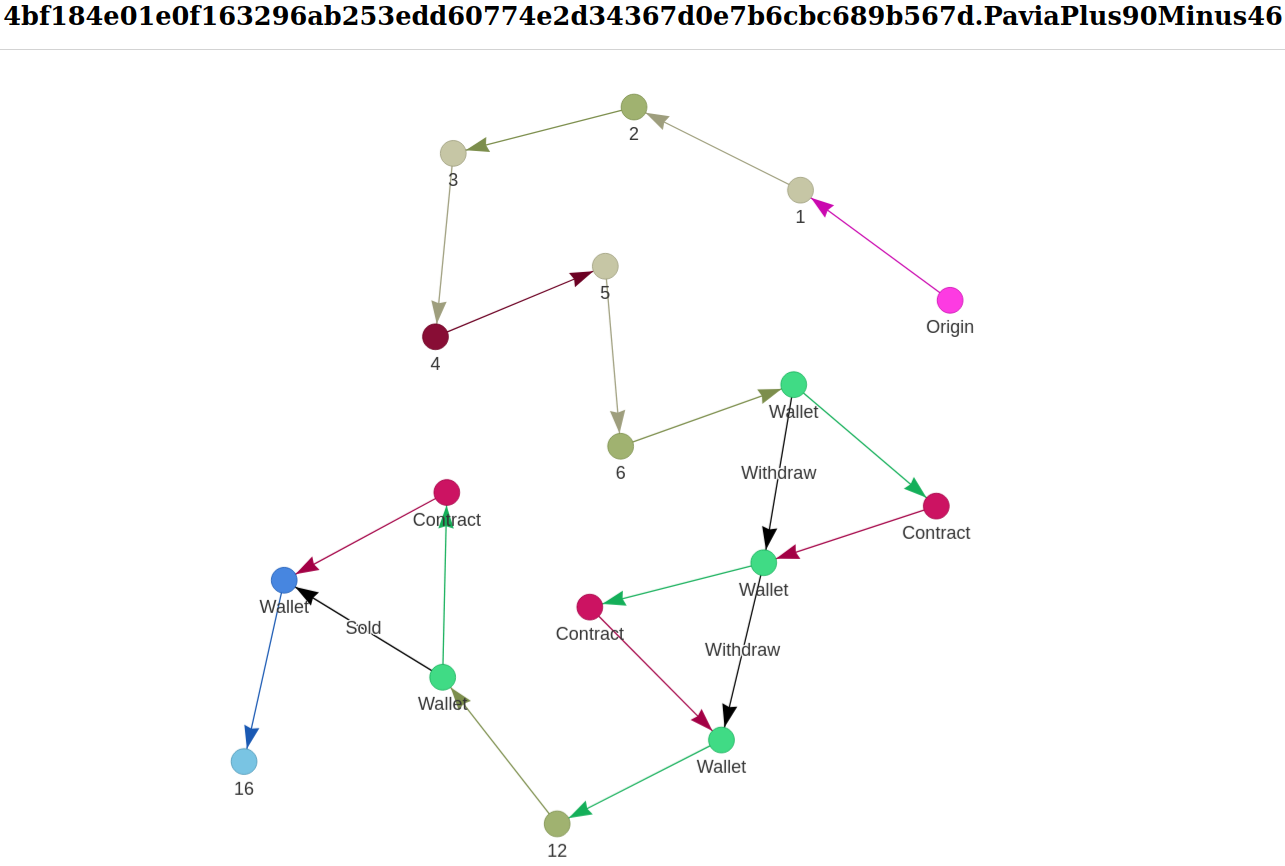
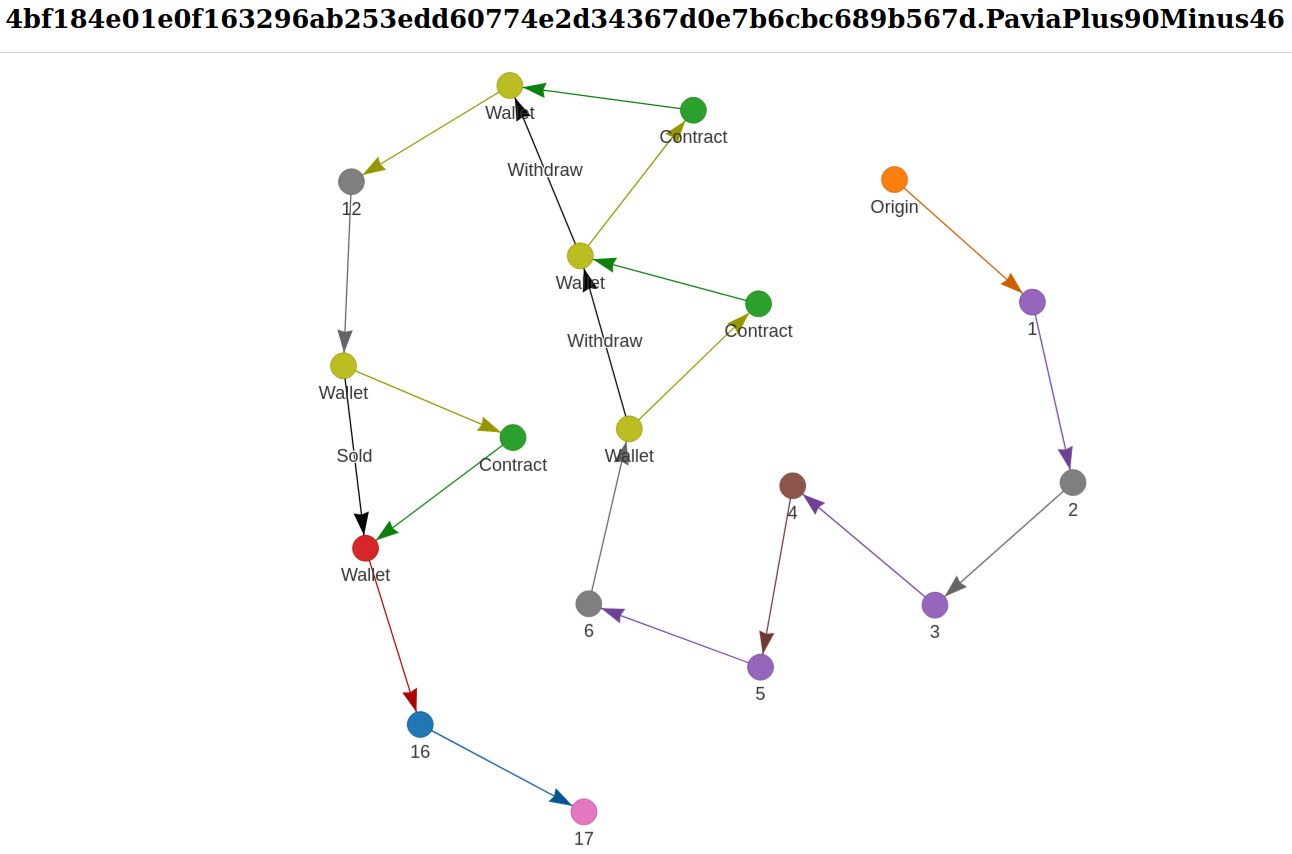
Adding testing and improving color selection

diff --git a/nx.html b/nx.html
@@ -3,7 +3,7 @@
 <link rel="stylesheet" href="https://cdnjs.cloudflare.com/ajax/libs/vis/4.16.1/vis.css" type="text/css" />
 <script type="text/javascript" src="https://cdnjs.cloudflare.com/ajax/libs/vis/4.16.1/vis-network.min.js"> </script>
 <center>
-<h1>8634f3bf5cd864c4b661ff25789ae0154b34084d431c222d242bc39c.DEADTRAILLOGIC11</h1>
+<h1>4bf184e01e0f163296ab253edd60774e2d34367d0e7b6cbc689b567d.PaviaPlus90Minus46</h1>
 </center>
 
 <!-- <link rel="stylesheet" href="../node_modules/vis/dist/vis.min.css" type="text/css" />
@@ -50,8 +50,8 @@
         
 
         // parsing and collecting nodes and edges from the python
-        nodes = new vis.DataSet([{"address": "stake1u8xlrrmrt9uvgae03se42t63mglam333vuwn5w25daj62wqzms5we", "color": "#C57783", "id": 0, "label": "Origin", "shape": "dot", "size": 10, "title": "stake1u8xlrrmrt9uvgae03se42t63mglam333vuwn5w25daj62wqzms5we"}, {"address": "stake1uytv94sz3fxehr49steajzuyy4wnmp4a8ehyywyhfc2g3pguhn0dq", "color": "#E0A3B0", "id": 1, "label": "1", "shape": "dot", "size": 10, "title": "stake1uytv94sz3fxehr49steajzuyy4wnmp4a8ehyywyhfc2g3pguhn0dq"}, {"address": "addr1vy356vnymrzy27kkh4se0znrpr4jgqmay2n0xutglcnfnac85efw4", "color": "#7C537D", "id": 2, "label": "Wallet", "shape": "dot", "size": 10, "title": "addr1vy356vnymrzy27kkh4se0znrpr4jgqmay2n0xutglcnfnac85efw4"}, {"address": "addr1wyl5fauf4m4thqze74kvxk8efcj4n7qjx005v33ympj7uwsscprfk", "color": "#C2D15E", "id": 3, "label": "Contract", "shape": "dot", "size": 10, "title": "addr1wyl5fauf4m4thqze74kvxk8efcj4n7qjx005v33ympj7uwsscprfk"}]);
[1 lines of base64/hex data omitted]
+        nodes = new vis.DataSet([{"address": "stake1u89qftvr6q8y2ay9spyzpt0cj5avgntf44jm8duxndhsxrspgh0aa", "color": "#2ca02c", "id": 0, "label": "Origin", "shape": "dot", "size": 10, "title": "stake1u89qftvr6q8y2ay9spyzpt0cj5avgntf44jm8duxndhsxrspgh0aa"}, {"address": "stake1u9mjnpf5a5k6eavp5yh0fkyeek25cx9jv6rstp5y4k6q3gqv7tdy9", "color": "#8c564b", "id": 1, "label": "1", "shape": "dot", "size": 10, "title": "stake1u9mjnpf5a5k6eavp5yh0fkyeek25cx9jv6rstp5y4k6q3gqv7tdy9"}, {"address": "stake1u8jvcxa9l7m2kp8hf76jxxd7swel0j7fc7sn0kq5yrgzpwgjszc8l", "color": "#7f7f7f", "id": 2, "label": "2", "shape": "dot", "size": 10, "title": "stake1u8jvcxa9l7m2kp8hf76jxxd7swel0j7fc7sn0kq5yrgzpwgjszc8l"}, {"address": "stake1u9mjnpf5a5k6eavp5yh0fkyeek25cx9jv6rstp5y4k6q3gqv7tdy9", "color": "#8c564b", "id": 3, "label": "3", "shape": "dot", "size": 10, "title": "stake1u9mjnpf5a5k6eavp5yh0fkyeek25cx9jv6rstp5y4k6q3gqv7tdy9"}, {"address": "addr1vy562ys75vf9x670gnps3qr4hj2gwf86nzlhr5lppvjjavsxxrvj4", "color": "#1f77b4", "id": 4, "label": "4", "shape": "dot", "size": 10, "title": "addr1vy562ys75vf9x670gnps3qr4hj2gwf86nzlhr5lppvjjavsxxrvj4"}, {"address": "stake1u9mjnpf5a5k6eavp5yh0fkyeek25cx9jv6rstp5y4k6q3gqv7tdy9", "color": "#8c564b", "id": 5, "label": "5", "shape": "dot", "size": 10, "title": "stake1u9mjnpf5a5k6eavp5yh0fkyeek25cx9jv6rstp5y4k6q3gqv7tdy9"}, {"address": "stake1u8jvcxa9l7m2kp8hf76jxxd7swel0j7fc7sn0kq5yrgzpwgjszc8l", "color": "#7f7f7f", "id": 6, "label": "6", "shape": "dot", "size": 10, "title": "stake1u8jvcxa9l7m2kp8hf76jxxd7swel0j7fc7sn0kq5yrgzpwgjszc8l"}, {"address": "addr1vxs5th36tay9t6lu5ewek2mrrph6aqdhwqxvk0u74g6l2kcfjhss4", "color": "#d62728", "id": 7, "label": "Wallet", "shape": "dot", "size": 10, "title": "addr1vxs5th36tay9t6lu5ewek2mrrph6aqdhwqxvk0u74g6l2kcfjhss4"}, {"address": "addr1wyl5fauf4m4thqze74kvxk8efcj4n7qjx005v33ympj7uwsscprfk", "color": "#bcbd22", "id": 8, "label": "Contract", "shape": "dot", "size": 10, "title": "addr1wyl5fauf4m4thqze74kvxk8efcj4n7qjx005v33ympj7uwsscprfk"}, {"address": "addr1vxs5th36tay9t6lu5ewek2mrrph6aqdhwqxvk0u74g6l2kcfjhss4", "color": "#d62728", "id": 9, "label": "Wallet", "shape": "dot", "size": 10, "title": "addr1vxs5th36tay9t6lu5ewek2mrrph6aqdhwqxvk0u74g6l2kcfjhss4"}, {"address": "addr1wyl5fauf4m4thqze74kvxk8efcj4n7qjx005v33ympj7uwsscprfk", "color": "#bcbd22", "id": 10, "label": "Contract", "shape": "dot", "size": 10, "title": "addr1wyl5fauf4m4thqze74kvxk8efcj4n7qjx005v33ympj7uwsscprfk"}, {"address": "addr1vxs5th36tay9t6lu5ewek2mrrph6aqdhwqxvk0u74g6l2kcfjhss4", "color": "#d62728", "id": 11, "label": "Wallet", "shape": "dot", "size": 10, "title": "addr1vxs5th36tay9t6lu5ewek2mrrph6aqdhwqxvk0u74g6l2kcfjhss4"}, {"address": "stake1u8jvcxa9l7m2kp8hf76jxxd7swel0j7fc7sn0kq5yrgzpwgjszc8l", "color": "#7f7f7f", "id": 12, "label": "12", "shape": "dot", "size": 10, "title": "stake1u8jvcxa9l7m2kp8hf76jxxd7swel0j7fc7sn0kq5yrgzpwgjszc8l"}, {"address": "addr1vxs5th36tay9t6lu5ewek2mrrph6aqdhwqxvk0u74g6l2kcfjhss4", "color": "#d62728", "id": 13, "label": "Wallet", "shape": "dot", "size": 10, "title": "addr1vxs5th36tay9t6lu5ewek2mrrph6aqdhwqxvk0u74g6l2kcfjhss4"}, {"address": "addr1wyl5fauf4m4thqze74kvxk8efcj4n7qjx005v33ympj7uwsscprfk", "color": "#bcbd22", "id": 14, "label": "Contract", "shape": "dot", "size": 10, "title": "addr1wyl5fauf4m4thqze74kvxk8efcj4n7qjx005v33ympj7uwsscprfk"}, {"address": "addr1vy25qvqjvl9esgsw42c8esa6fdp4x2es4ped4qy8zhu25ecpk4j38", "color": "#e377c2", "id": 15, "label": "Wallet", "shape": "dot", "size": 10, "title": "addr1vy25qvqjvl9esgsw42c8esa6fdp4x2es4ped4qy8zhu25ecpk4j38"}, {"address": "stake1uxcd3g3hutd67ycw09rp6uuj5m8ucad3a3ql8d2trgywkvcfrdvsl", "color": "#9467bd", "id": 16, "label": "16", "shape": "dot", "size": 10, "title": "stake1uxcd3g3hutd67ycw09rp6uuj5m8ucad3a3ql8d2trgywkvcfrdvsl"}, {"address": "stake1uyrcntdc7hu6zeq2k6myedu0gn3cwuud95ns7lmmlaxapmcjx49ey", "color": "#ff7f0e", "id": 17, "label": "17", "shape": "dot", "size": 10, "title": "stake1uyrcntdc7hu6zeq2k6myedu0gn3cwuud95ns7lmmlaxapmcjx49ey"}]);
[1 lines of base64/hex data omitted]
 
         // adding nodes and edges to the graph
         data = {nodes: nodes, edges: edges};

diff --git a/origin_trace.py b/origin_trace.py
@@ -1,6 +1,7 @@
 """
-    File name: origin_trace.py
-    Author: The Ancient Kraken
+File name : origin_trace.py
+Testing   : test.py
+Author    : The Ancient Kraken
 """
 import requests
 import base64
@@ -11,6 +12,8 @@ from typing import Tuple
 import sys
 import json
 import click
+import matplotlib.colors as mcolors
+
 
 ###############################################################################
 # Requires Blockfrost API Key.
@@ -25,7 +28,10 @@ def get(endpoint:str) -> dict:
     """
     Return the json reponse from an endpoint.
     """
-    response = requests.get(endpoint, headers=headers).json()
+    try:
+        response = requests.get(endpoint, headers=headers).json()
+    except (requests.exceptions.MissingSchema, json.decoder.JSONDecodeError):
+        response = {}
     return response
 
 
@@ -35,6 +41,7 @@ def all_transactions(asset:str, mainnet_flag:bool=True) -> list:
     """
     page = 1
     trx = []
+    
     # Query each page until nothing returns.
     while True:
         endpoint = 'assets/{}/transactions?page={}'.format(asset, page)
@@ -42,14 +49,20 @@ def all_transactions(asset:str, mainnet_flag:bool=True) -> list:
             response = get(mainnet + endpoint)
         else:
             response = get(testnet + endpoint)
+        
+        # Any error should return an empty list.
         try:
             response['error']
             click.echo(click.style('Error: Invalid Inputs', fg='red'))
-            sys.exit()
+            return []
         except TypeError:
             pass
+        
+        # The last page will be empty.
         if response == []:
             break
+        
+        # Append the hash and increment the page.
         for obj in response:
             trx.append(obj['tx_hash'])
         page += 1
@@ -61,7 +74,13 @@ def txhash_to_address(trx_hashes:list, asset:str, mainnet_flag:bool=True) -> dic
     Create a dictionary of transaction hashes and addresses from a list of 
     every transaction of some asset.
     """
+    
+    # This function requries a list of hashes to work.
+    if not isinstance(trx_hashes, list):
+        return {}
+    asset = str(asset)
     addresses = {}
+    
     # Loop each tx hash from all the transactions
     for trx in trx_hashes:
         endpoint = 'txs/{}/utxos'.format(trx)
@@ -69,21 +88,47 @@ def txhash_to_address(trx_hashes:list, asset:str, mainnet_flag:bool=True) -> dic
             response_utxos = get(mainnet + endpoint)
         else:
             response_utxos = get(testnet + endpoint)
+        
         # Loop all the outputs from each UTxO of each transaction.
         for outputs in response_utxos['outputs']:
+            
             # Loop the amounts
             for amt in outputs['amount']:
                 if amt['unit'] == asset:
                     endpoint2 = 'addresses/{}'.format(outputs['address'])
+                    
                     # Check if stake address is available.
                     if mainnet_flag is True:
                         response_address = get(mainnet + endpoint2)['stake_address']
                     else:
                         response_address = get(testnet + endpoint2)['stake_address']
+                    
+                    # Use the wallet address if a stake address doesn't exist.
                     if response_address is None:
                         response_address = outputs['address']
                     addresses[trx] = response_address
     return addresses
+
+def select_colors(number:int) -> list:
+    """
+    Select N unique colors that are distingishable.
+    """
+
+    # The number must be an int.
+    try:
+        number = int(number)
+    except ValueError:
+        return []
+    
+    # Use the tableau colors for low values of number
+    tc = mcolors.TABLEAU_COLORS
+    full_color_list = list(tc.values())
+    if number <= len(full_color_list):
+        colors = full_color_list[:number]
+    else:
+        # If more than 10 colors are required then just randomly generate the colors and hope for the best.
+        colors = ["#"+''.join([random.choice('ABCDEF0123456789') for i in range(6)]) for j in range(number)]
+    return colors
 
 
 def build_graph(addresses:dict, script_address:str,) -> nx.classes.digraph.DiGraph:
@@ -92,11 +137,22 @@ def build_graph(addresses:dict, script_address:str,) -> nx.classes.digraph.DiGra
     addresses, using the smart contract address to pinpoint a specific
     wallet during the trace.
     """
+    
+    # A empty graph.
     G = nx.DiGraph()
+    
+    # This function requires addresses to be a dict.
+    if not isinstance(addresses, dict):
+        return G
+    
+    script_address = str(script_address)
     counter = 0
     unique_addresses = list(set(addresses.values()))
+    
     # Randomly generate a list of colors with size len(unique addresses).
-    list_of_colors = ["#"+''.join([random.choice('ABCDEF0123456789') for i in range(6)]) for j in range(len(unique_addresses))]
+    # list_of_colors = ["#"+''.join([random.choice('ABCDEF0123456789') for i in range(6)]) for j in range(len(unique_addresses))]
+    list_of_colors = select_colors(len(unique_addresses))
+    
     # Loop all the transaction hashes from the addresses.
     for tx_hash in addresses:
         nodes = [x for x,y in G.nodes(data=True) if y['address'] == addresses[tx_hash]] # Correct node count.
@@ -123,15 +179,29 @@ def build_graph(addresses:dict, script_address:str,) -> nx.classes.digraph.DiGra
         counter += 1
     return G
 
+def con_cat(policy_id:str, asset_name:str) -> str:
+    """
+    Return the concatenation of the policy id and the hex encoded asset name.
+    """
+    policy_id  = str(policy_id)
+    asset_name = str(asset_name)
+    asset = policy_id + base64.b16encode(bytes(asset_name.encode('utf-8'))).decode('utf-8').lower()
+    return asset
+
 
 def track_asset(policy_id:str, asset_name:str, script_address:str="", mainnet_flag:bool=True) -> Tuple[nx.classes.digraph.DiGraph, dict]:
     """
     Track an asset by its policy and asset name from origin to present wallet.
     Provide a smart contract address to mark a specific wallet.
     """
-    asset = policy_id + base64.b16encode(bytes(asset_name.encode('utf-8'))).decode('utf-8').lower()
+    G = nx.DiGraph()
+    asset = con_cat(policy_id, asset_name)
     trx_hashes = all_transactions(asset, mainnet_flag)
+    if trx_hashes == []:
+        return G, {}
     addresses = txhash_to_address(trx_hashes, asset, mainnet_flag)
+    if addresses == {}:
+        return G, {}
     G = build_graph(addresses, script_address)
     return G, addresses
 
@@ -140,6 +210,12 @@ def find_node(G:nx.classes.digraph.DiGraph, val:int) -> bool:
     """
     Return True if a vertex exists within G else False.
     """
+    if not isinstance(G, nx.classes.digraph.DiGraph):
+        return False
+    try:
+        val = int(val)
+    except ValueError:
+        return False
     return any([node for node in G.nodes(data=True) if node[0] == val])
 
 

diff --git a/test.py b/test.py
@@ -1,0 +1,153 @@
+import unittest
+import origin_trace as trace
+
+"""
+get(endpoint:str) -> dict
+"""
+class TestGetMethod(unittest.TestCase):
+
+    def test_no_url(self):
+        self.assertEqual(trace.get(''), {})
+    
+    def test_wrong_url(self):
+        self.assertEqual(trace.get('https://www.logicalmechanism.io/'), {})
+    
+    def test_correct_url(self):
+        self.assertEqual(trace.get('https://cardano-mainnet.blockfrost.io/api/v0/')['url'], 'https://blockfrost.io/')
+    
+    def test_number_url(self):
+        self.assertEqual(trace.get(1), {})
+
+"""
+con_cat(policy_id:str, asset_name:str) -> str
+"""
+class TestConcatMethod(unittest.TestCase):
+
+    def test_no_strings(self):
+        self.assertEqual(trace.con_cat('', ''), '')
+    
+    def test_simple_string(self):
+        self.assertEqual(trace.con_cat('', 'myassetname'), '6d7961737365746e616d65')
+    
+    def test_numbers(self):
+        self.assertEqual(trace.con_cat(1,2), '132')
+    
+    def test_numbers(self):
+        self.assertEqual(trace.con_cat('hello',''), 'hello')
+
+"""
+all_transactions(asset:str, mainnet_flag:bool=True) -> list
+"""
+class TestAllTransactionsMethod(unittest.TestCase):
+
+    def test_no_asset(self):
+        self.assertEqual(trace.all_transactions(''), [])
+    
+    def test_no_asset(self):
+        self.assertEqual(trace.all_transactions(123), [])
+    
+    def test_good_asset(self):
+        asset = trace.con_cat('eb25239ff383cba6f76699f88c6d4441179cf9bfea27b214ee461fd6','HappyFaceTunnel')
[1 lines of base64/hex data omitted]
+        self.assertEqual(trace.all_transactions(asset), outcome)
+    
+    def test_good_asset_bad_flag(self):
+        asset = trace.con_cat('eb25239ff383cba6f76699f88c6d4441179cf9bfea27b214ee461fd6','HappyFaceTunnel')
+        self.assertEqual(trace.all_transactions(asset, False), [])
+
+"""
+txhash_to_address(trx_hashes:list, asset:str, mainnet_flag:bool=True) -> dict
+"""
+class TestTxHashToAddressMethod(unittest.TestCase):
+    
+    def test_no_asset(self):
+        self.assertEqual(trace.txhash_to_address([], ''), {})
+    
+    def test_no_asset(self):
+        self.assertEqual(trace.txhash_to_address([], 123), {})
+        self.assertEqual(trace.txhash_to_address(123, ''), {})
+    
+    def test_correct_inputs(self):
+        asset = trace.con_cat('eb25239ff383cba6f76699f88c6d4441179cf9bfea27b214ee461fd6','HappyFaceTunnel')
[2 lines of base64/hex data omitted]
+        self.assertEqual(trace.txhash_to_address(tx_hashes, asset), outcome)
+
+"""
+build_graph(addresses:dict, script_address:str,) -> nx.classes.digraph.DiGraph
+"""
+class TestBuildGraphMethod(unittest.TestCase):
+    
+    def test_no_addresses(self):
+        # return empty graph
+        self.assertEqual(trace.build_graph({}, '').number_of_nodes(), 0)
+    
+    def test_wrong_addresses_type(self):
+        # return empty graph
+        self.assertEqual(trace.build_graph([], '').number_of_nodes(), 0)
+    
+    def test_no_contract(self):
[1 lines of base64/hex data omitted]
+        self.assertEqual(trace.build_graph(outcome, '').number_of_nodes(), 2)
+
+"""
+find_node(G:nx.classes.digraph.DiGraph, val:int) -> bool
+"""
+class TestFindNodeMethod(unittest.TestCase):
+
+    def test_no_graph_input(self):
+        # return empty graph
+        self.assertEqual(trace.find_node({}, 'a'), False)
+    
+    def test_bad_val_input(self):
+        # return empty graph
+        G = trace.build_graph({}, '')
+        self.assertEqual(trace.find_node(G, 'a'), False)
+    
+    def test_correct_inputs(self):
+        # return empty graph
+        G = trace.build_graph({}, '')
+        G.add_node(0)
+        self.assertEqual(trace.find_node(G, 0), True)
+    
+    def test_correct_inputs_wrong_nodee(self):
+        # return empty graph
+        G = trace.build_graph({}, '')
+        G.add_node(0)
+        self.assertEqual(trace.find_node(G, 1), False)
+
+
+"""
+track_asset(policy_id:str, asset_name:str, script_address:str="", mainnet_flag:bool=True) -> Tuple[nx.classes.digraph.DiGraph, dict]
+"""
+class TestTrackAssetMethod(unittest.TestCase):
+    
+    def test_no_graph_input(self):
+        # return empty graph
+        G = trace.build_graph({}, '')
+        self.assertEqual(trace.track_asset('','')[0].number_of_nodes(), 0)
+        self.assertEqual(trace.track_asset('','')[1], {})
+    
+    def test_correct_inputs(self):
+        policy_id, asset_name = ('eb25239ff383cba6f76699f88c6d4441179cf9bfea27b214ee461fd6','HappyFaceTunnel')
+
+        self.assertEqual(trace.track_asset(policy_id, asset_name)[0].number_of_nodes(), 2)
+
+
+"""
+select_colors(number:int) -> list
+"""
+class TestSelectColorsMethod(unittest.TestCase):
+
+    def test_bad_inputs(self):
+        self.assertEqual(trace.select_colors('test'), [])
+    
+    def test_good_inputs(self):
+        self.assertEqual(trace.select_colors(2), ['#1f77b4', '#ff7f0e'])
+    
+    def test_large_inputs(self):
+        self.assertEqual(len(trace.select_colors(25)), 25)
+
+
+if __name__ == '__main__':
+    unittest.main()

diff --git a/README.md b/README.md
@@ -93,3 +93,13 @@ Options:
   --mainnet_flag BOOLEAN  Optional
   --help                  Show this message and exit.
 ```
+
+## Testing
+
+The file ```origin_trace.py``` has a unittest located in the test.py file.
+
+Run all the tests with the command below.
+
+```
+python test.py
+```
